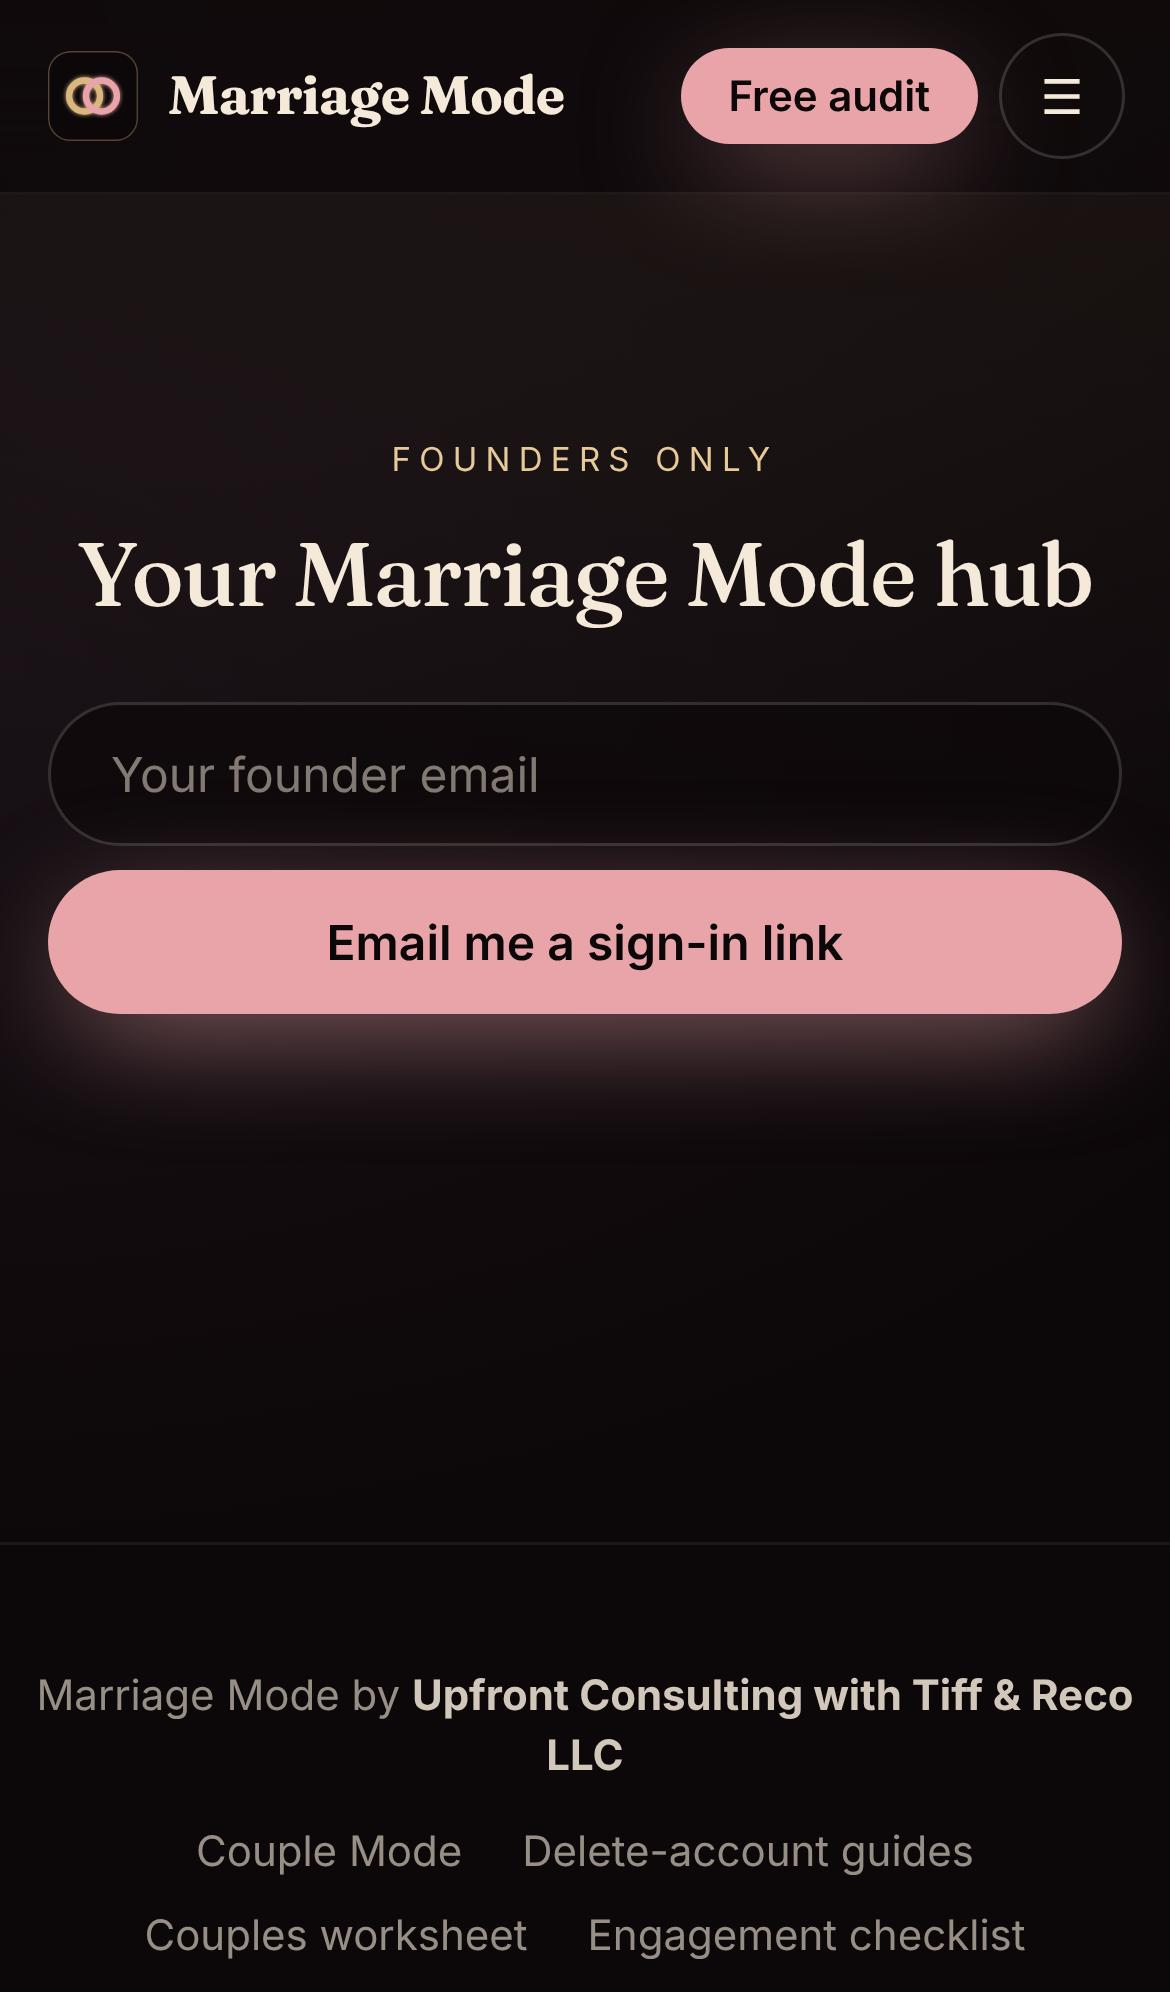
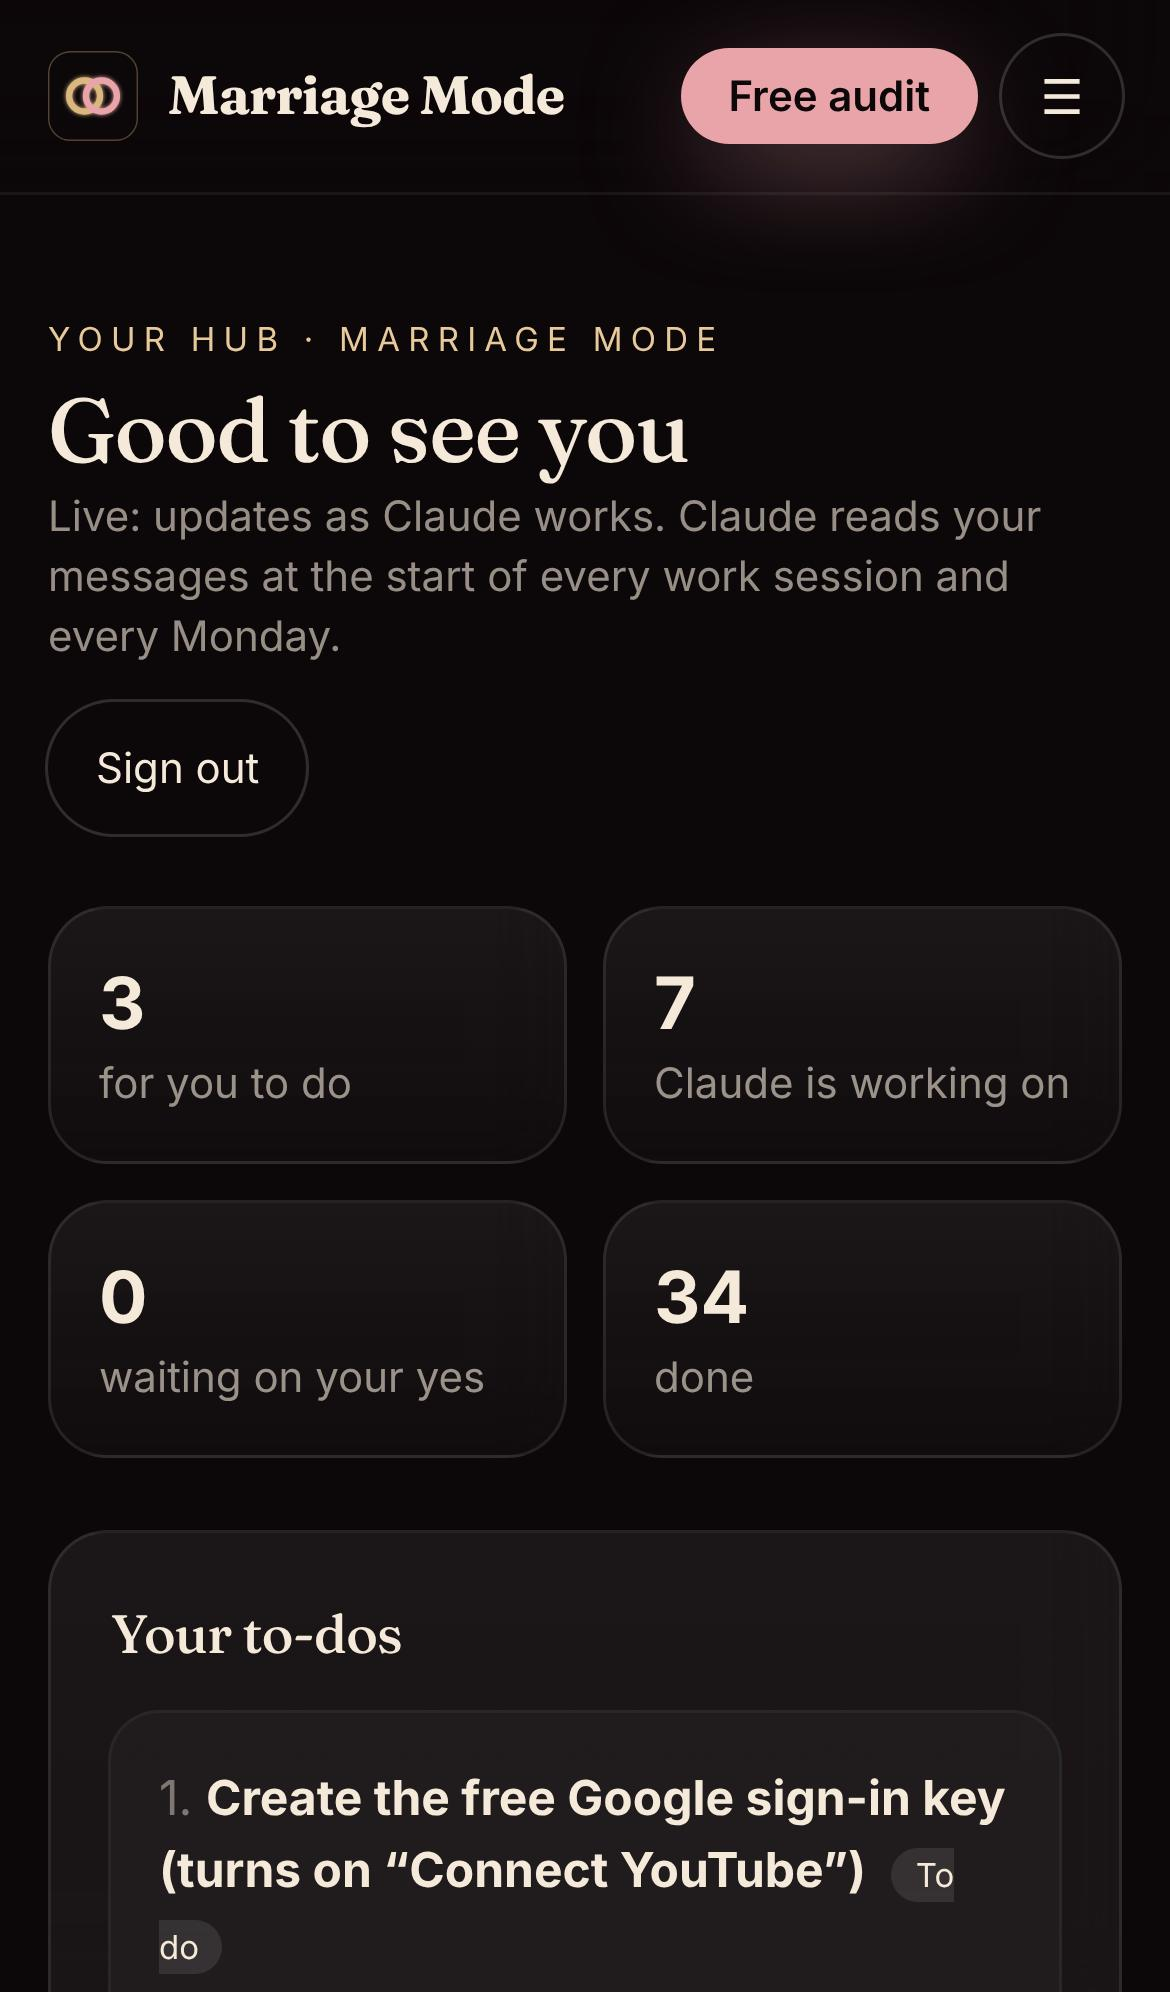
Hub moved off Claude: CLAUDE.md rule + scripts/hub.py helper for the live founders hub
Claude-Session: https://claude.ai/code/session_01PMWj3aTo82XBh1qqnGkntn

diff --git a/scripts/hub.py b/scripts/hub.py
@@ -1,0 +1,22 @@
+#!/usr/bin/env python3
+"""Founder hub helper for Claude sessions (live hub: /founders/, data in Supabase app.hub_*).
+Uses the Supabase Management API (the session's saved credential for api.supabase.com).
+  python3 scripts/hub.py inbox                 # unhandled messages from Tiffany
+  python3 scripts/hub.py tasks                 # open tasks
+  python3 scripts/hub.py reply "text" [taskId] # add a message from Claude
+  python3 scripts/hub.py handled <id>          # mark Tiffany's message handled
+  python3 scripts/hub.py task <id> '<json>'    # merge fields into a task (creates it if new)
+"""
+import json, sys, urllib.request, datetime as dt
+REF = 'wdokqitjoeellkwbtdso'
+def q(sql):
+    r = urllib.request.Request(f'https://api.supabase.com/v1/projects/{REF}/database/query', data=json.dumps({'query': sql}).encode(), method='POST', headers={'Authorization': 'Bearer x', 'Content-Type': 'application/json'})
+    return json.loads(urllib.request.urlopen(r).read() or b'[]')
+L = lambda s: "'" + str(s).replace("'", "''") + "'"
+now = dt.datetime.now(dt.timezone.utc).isoformat()
+cmd, *a = sys.argv[1:] or ['inbox']
+if cmd == 'inbox': print(json.dumps(q("select id, data from app.hub_messages where data->>'from'='you' and coalesce((data->>'handled')::boolean,false)=false order by created_at"), indent=1, ensure_ascii=False))
+elif cmd == 'tasks': print(json.dumps(q("select id, data->>'title' title, data->>'owner' owner, data->>'status' status, data->>'priority' p from app.hub_tasks where data->>'status' <> 'done' order by (data->>'priority')::int"), indent=1, ensure_ascii=False))
+elif cmd == 'reply': d = {'from': 'builder', 'text': a[0], 'at': now, **({'taskId': a[1]} if len(a) > 1 else {})}; q(f"insert into app.hub_messages (data) values ({L(json.dumps(d))}::jsonb)"); print('ok')
+elif cmd == 'handled': q(f"update app.hub_messages set data = data || '{{\"handled\":true}}'::jsonb where id = {L(a[0])}"); print('ok')
+elif cmd == 'task': q(f"insert into app.hub_tasks (id, data) values ({L(a[0])}, {L(a[1])}::jsonb) on conflict (id) do update set data = app.hub_tasks.data || excluded.data, updated_at = now()"); print('ok')

diff --git a/CLAUDE.md b/CLAUDE.md
@@ -37,17 +37,15 @@ tool for Marriage Mode to work. Everything runs in a normal phone or computer
 browser, free, with no sign-up for the core audit. Any future AI feature runs
 on our side (capped, approved spend) and the product still works if it's off.
 
-## Standing rule: the live Hub page (Tiffany, 2026-11-15)
-Tiffany's main hub is the private page https://claude.ai/artifact/9A4nMECrwQFZYxBRjAbH9i
-(source `hub/index.html`; data in its `tasks` and `messages` collections).
-At the start of every session: read `messages` (newest first) for requests from
-Tiffany, and `tasks` for the priority list; do the work in that order. As work
-moves, update each task's `status` (todo, doing, blocked, done with `doneAt`),
-add new tasks, and put anything Tiffany must do in as `owner: "you"` with
-`steps` written as dummy instructions. Reply to Tiffany in the hub by adding a `messages` doc with `from: "builder"`
-and mark her message `handled: true`. Her hub messages also arrive as comments
-sent to Claude (two-way sync); answer those the same way. Finished items leave the to-do lists automatically and appear in the hub History with their date; also append each to the HUB.md Done log (the history file). Keep HUB.md in step as the backup.
-Tiffany and her partner always get every product free (docs/14-MONETIZATION.md).
+## Standing rule: the live Hub page (Tiffany, 2026-11-15, moved off Claude)
+Tiffany's hub is LIVE on the site: https://upfrontconsultingwithtr-boop.github.io/MarriageMode/founders/
+(founders-only sign-in; data in Supabase `app.hub_tasks` / `app.hub_messages`, migration 0008).
+Upfront HQ links to it. The old Claude artifact hub is retired (read-only backup).
+At the start of every session run `python3 scripts/hub.py inbox` and `python3 scripts/hub.py tasks`
+and do the work in that order. Reply with `scripts/hub.py reply`, mark hers with `handled`, and
+update tasks with `scripts/hub.py task <id> '<json>'` (status todo|doing|blocked|done + doneAt;
+owner "you" tasks get `steps` as dummy instructions; post reviews get `preview`). Also append
+finished items to the HUB.md Done log. Tiffany and her partner always get every product free.
 
 ## Standing rule: never wait (Tiffany, 2026-11-15)
 If Tiffany hasn't answered or a step is blocked on her, don't stop: put her
